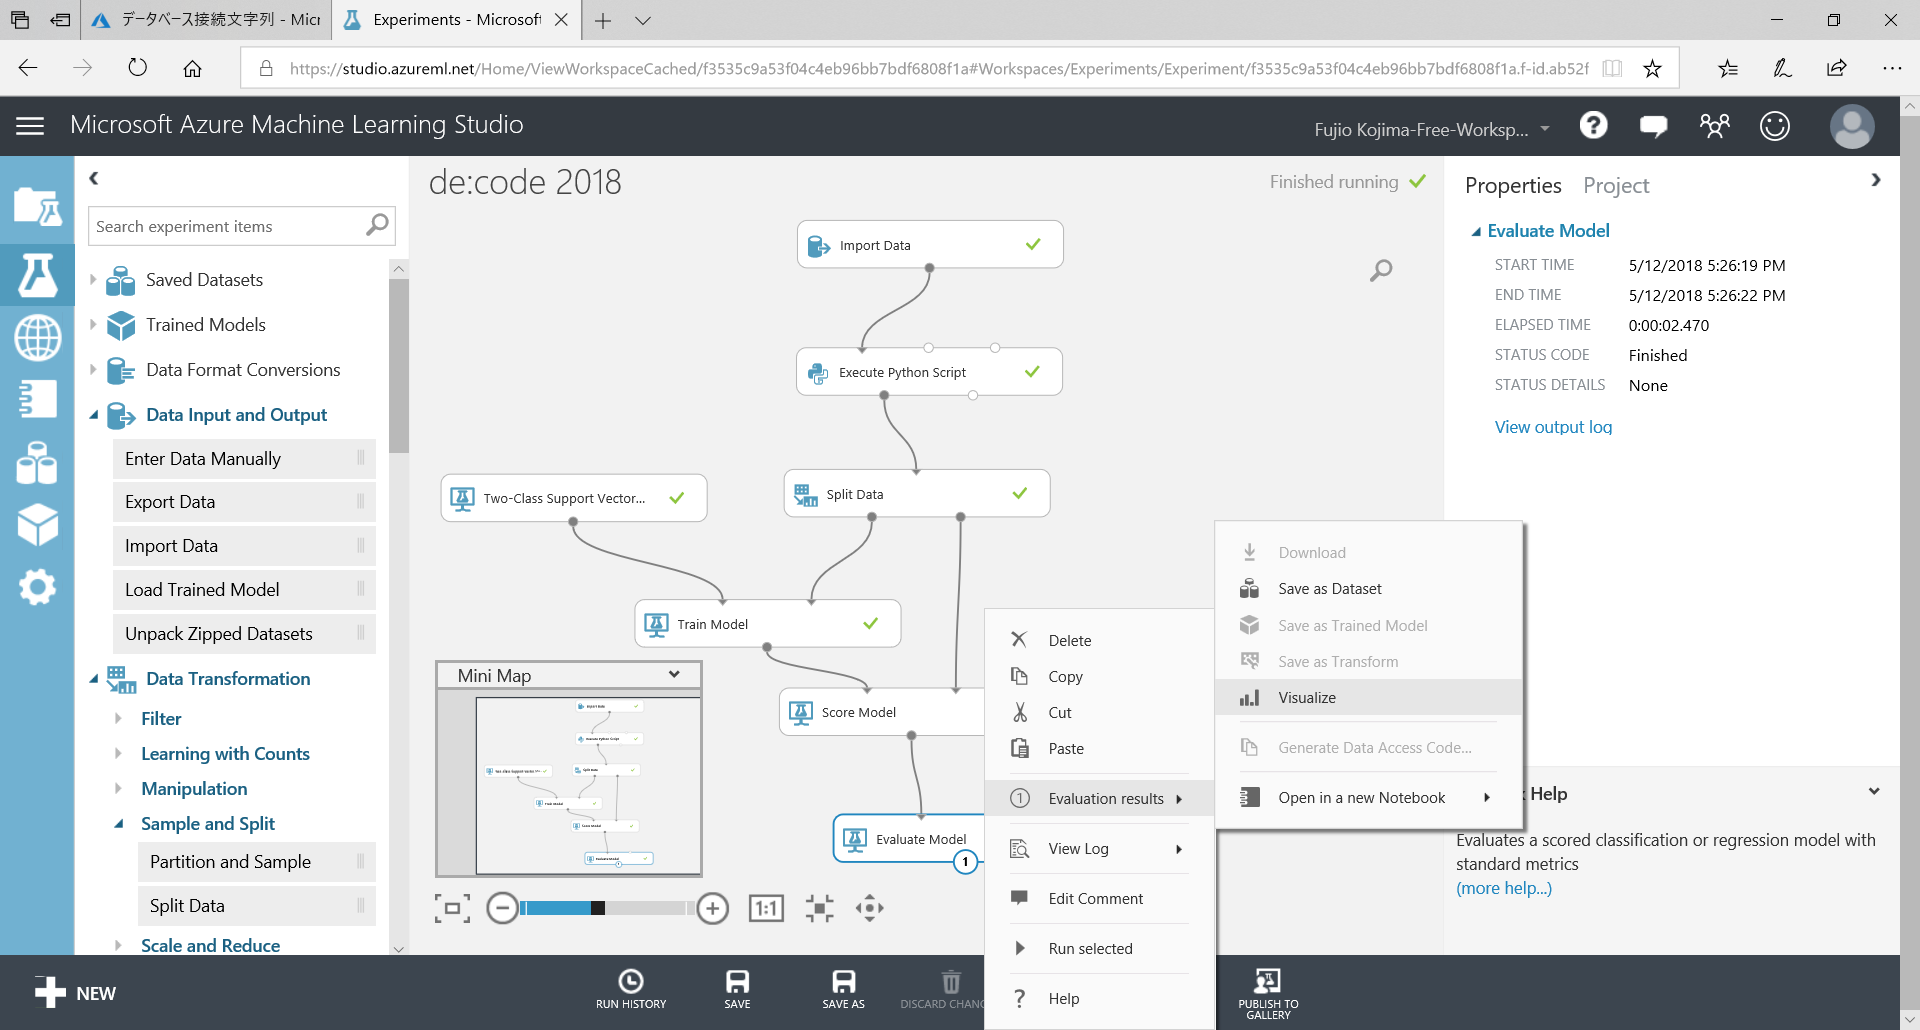
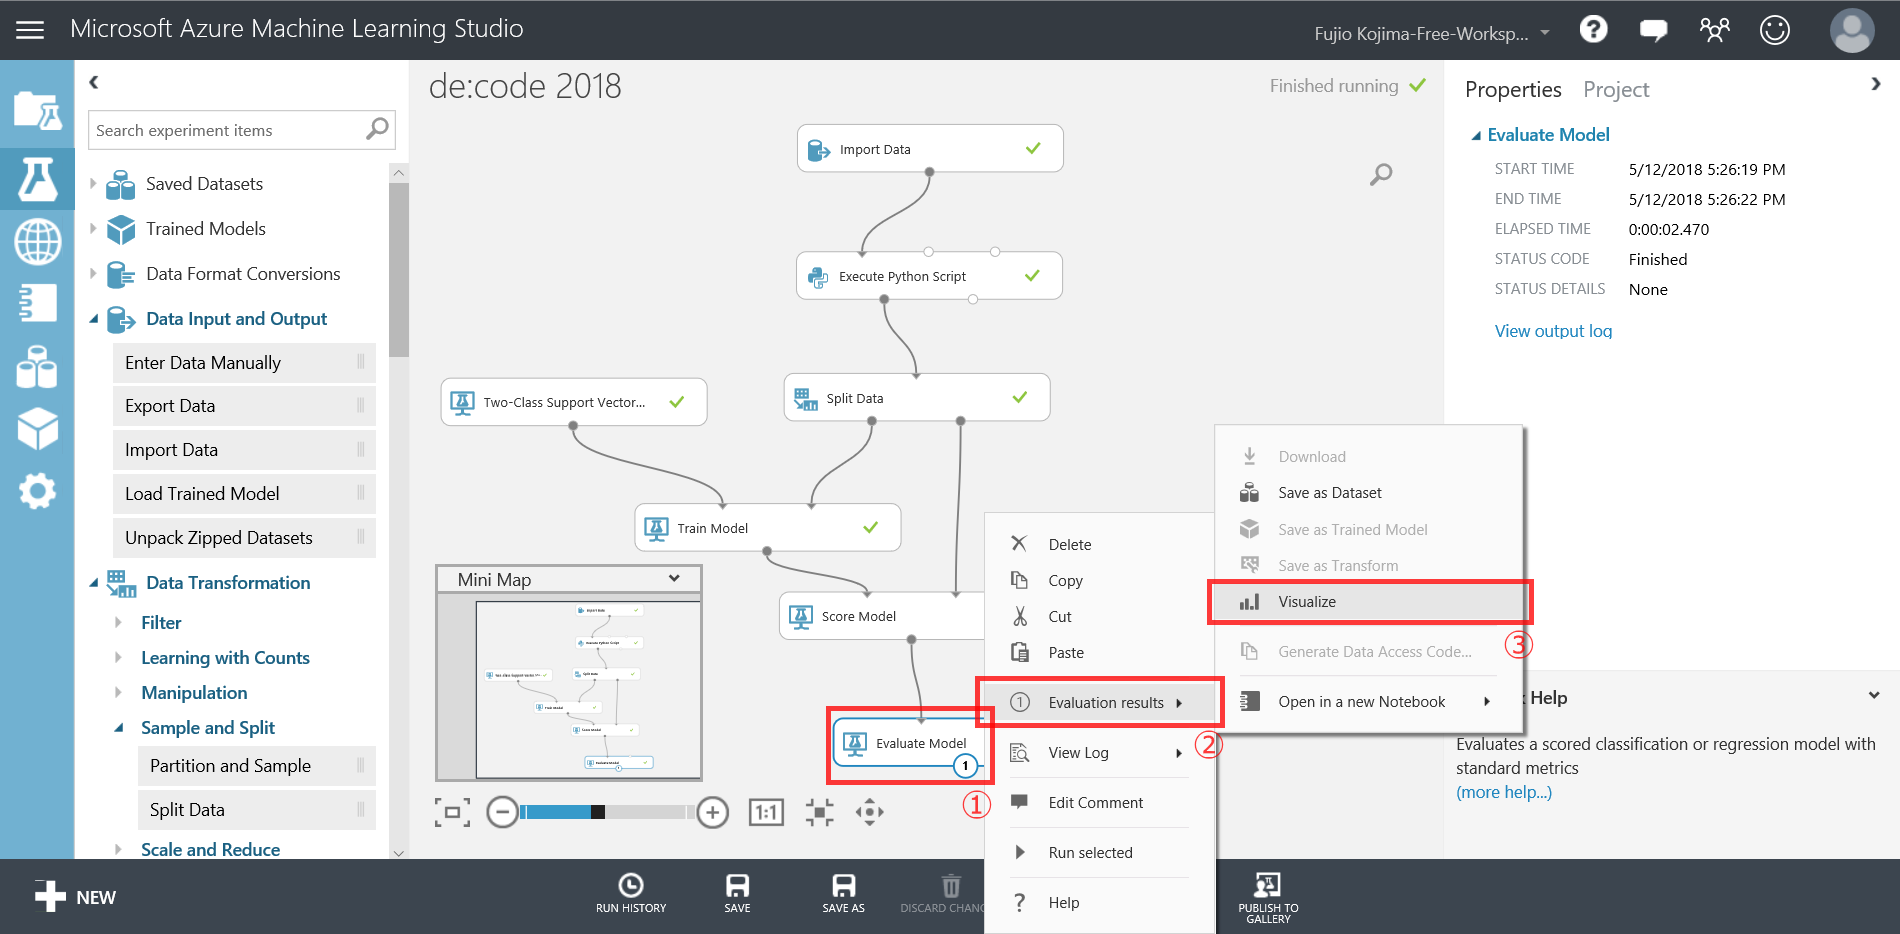
README.md を更新。

diff --git a/README.md b/README.md
@@ -188,3 +188,15 @@ Azure Machine Learning Studio を使って簡単に機械学習を利用した A
 全部が完了するまで、待ちましょう。
 
 ![Microsoft Azure Machine Learning Studio によるマシーンラーニング (機械学習)](https://github.com/Fujiwo/PredictStockPrice-AI-decode/blob/master/images/2018-05-12%20(59).png?raw=true "Microsoft Azure Machine Learning Studio によるマシーンラーニング (機械学習)")
+
+## 3.26 「RUN」が完了したら、結果を確認してみましょう。
+「Evaluate Model」を右クリックし、「Evaluation results」から「Visualize」をクリックします。
+
+![Microsoft Azure Machine Learning Studio によるマシーンラーニング (機械学習)](https://github.com/Fujiwo/PredictStockPrice-AI-decode/blob/master/images/2018-05-12%20(60).png?raw=true "Microsoft Azure Machine Learning Studio によるマシーンラーニング (機械学習)")
+
+## 3.27 「Accuracy」が 0.571 などと表示されているのが分かります。57% の精度で予測できたようです。
+
+![Microsoft Azure Machine Learning Studio によるマシーンラーニング (機械学習)](https://github.com/Fujiwo/PredictStockPrice-AI-decode/blob/master/images/2018-05-12%20(61).png?raw=true "Microsoft Azure Machine Learning Studio によるマシーンラーニング (機械学習)")
+
+## 4. [Microsoft Azure Machine Learning Studio](https://studio.azureml.net) でマシーンラーニング (機械学習) したモデルから API を作成
+
